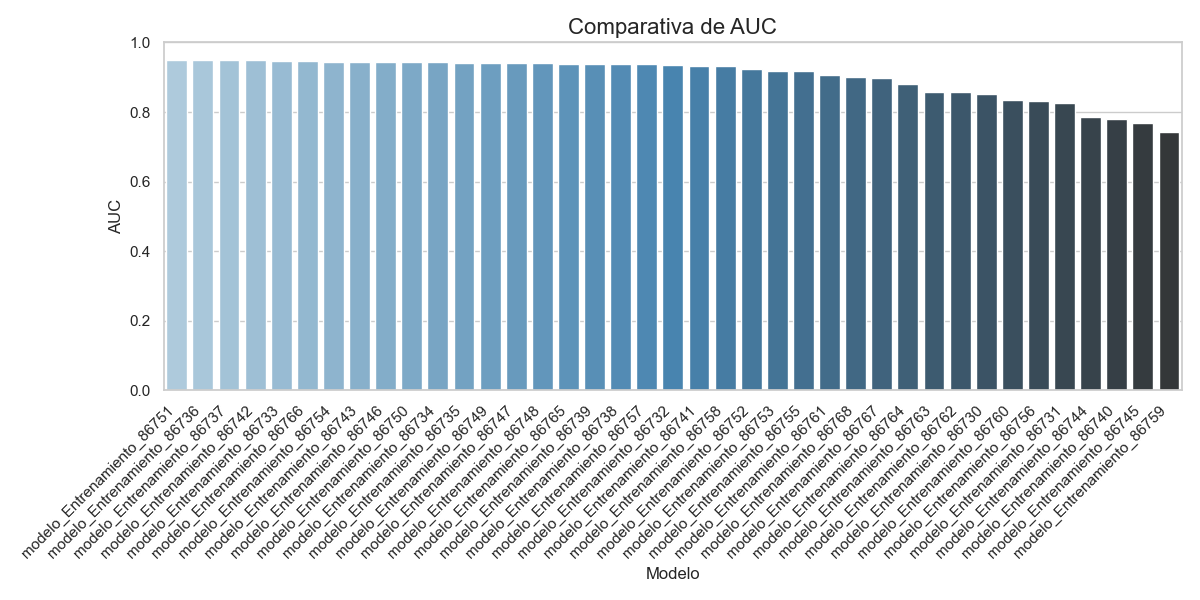
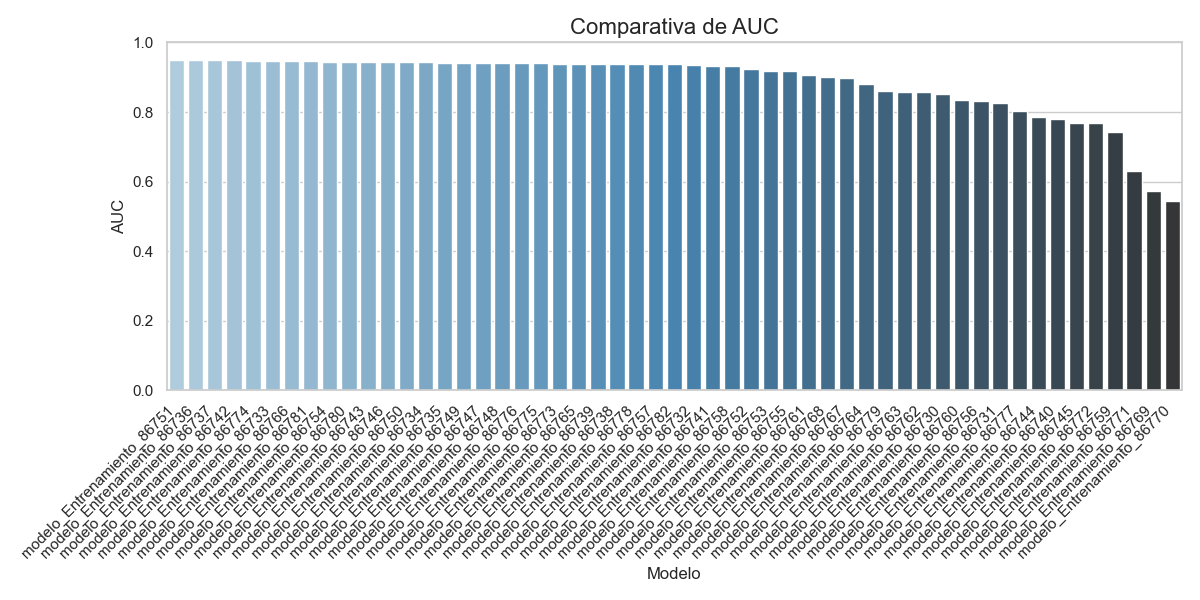
Actualización y datos
Actualización y obtención de los datos del testeo realizado al modelo elegido

diff --git a/Testeo/Test.py b/Testeo/Test.py
@@ -39,6 +39,8 @@ from tensorflow.keras.applications.efficientnet import preprocess_input
 from sklearn.metrics import roc_auc_score, f1_score, recall_score, precision_score, confusion_matrix, classification_report, roc_curve, auc
 import tensorflow.keras.backend as K
 from collections import Counter
+from tensorflow.keras.layers import Input
+from tensorflow.keras.models import Model
 import time
 import shutil
 
@@ -46,7 +48,7 @@ import shutil
 IMG_SIZE = 224
 BATCH_SIZE = 16
 LEARNING_RATE = 1e-4
-timestamp = "20250412_105257"
+timestamp = "20250412_123456"  # Cambiar por la fecha y hora actual o un ID único
 modelo_final_path = './ModelosGuardados/prueba_modelo_Entrenamiento_86733.keras'
 resultados_path = './Resultados'
 os.makedirs(resultados_path, exist_ok=True)
@@ -85,6 +87,15 @@ model.compile(optimizer=keras.optimizers.RMSprop(learning_rate=LEARNING_RATE),
 modelo_final_save_path = './Modelo Final/modelo_final.keras'
 model.save(modelo_final_save_path)
 print(f"[✔] Copia del modelo guardada en: {modelo_final_save_path}")
+
+# Reconstruir modelo con input simple (sin nombre)
+inputs = Input(shape=(IMG_SIZE, IMG_SIZE, 3))
+outputs = model(inputs)
+
+modelo_simple = Model(inputs=inputs, outputs=outputs)
+modelo_simple_save_path = './Modelo Final/modelo_final_simple.keras'
+modelo_simple.save(modelo_simple_save_path, save_format='keras')
+print(f"[✔] Modelo simplificado guardado en: {modelo_simple_save_path}")
 
 # === PREDICCIÓN Y MÉTRICAS ===
 start = time.time()
@@ -270,7 +281,7 @@ for i, idx in enumerate(sample_idx, start=1):
         plt.figure(figsize=(6, 6))
         plt.imshow(grad_cam_image)
         plt.axis('off')
-        plt.title(f"Grad-CAM - Pred: {clase_pred} Real: {clase_real}")
+        plt.title(f"Grad-CAM – Pred: {clase_pred} Real: {clase_real}")
         file_name = f"grad_cam_{i}_pred_{clase_pred}_real_{clase_real}.png"
         plt.tight_layout()
         plt.savefig(os.path.join(img_gradcam_path, file_name))
@@ -404,18 +415,18 @@ for i in range(3):
     fpr, tpr, _ = roc_curve(y_test_bin[:, i], y_pred_prob[:, i])
     roc_auc = auc(fpr, tpr)
     plt.plot(fpr, tpr, color=colores[i], lw=2,
-             label=f'{clases[i]} (AUC = {roc_auc:.4f})')
+             label=f'{clases[i]} (AUC = {roc_auc:.3f})')
 
 # Diagonal de referencia
 plt.plot([0, 1], [0, 1], 'k--', lw=2)
 
-plt.xlim([0.0, 1.0])
+plt.xlim([-0.02, 1.0])
 plt.ylim([0.0, 1.05])
 plt.xlabel('Tasa de Falsos Positivos (FPR)')
 plt.ylabel('Tasa de Verdaderos Positivos (TPR)')
-plt.title('Curva ROC por clase')
+plt.title('Curva ROC – Entrenamiento_86733')
 plt.legend(loc='lower right')
-plt.grid(alpha=0.3)
+plt.grid(alpha=1.0)
 
 roc_path = os.path.join(resultados_path, f"curva_roc_por_clase_{timestamp}.png")
 plt.savefig(roc_path)

diff --git a/Testeo/GraficasModelos.py b/Testeo/GraficasModelos.py
@@ -66,7 +66,7 @@ for _, row in top3.iterrows():
     plt.xticks(angles[:-1], etiquetas, color='grey', size=8, rotation=45)
     ax.plot(angles, valores, linewidth=2, linestyle='solid', label=row['Nombre_Modelo'])
     ax.fill(angles, valores, alpha=0.3)
-    plt.title(f'Radar por clase - {row["Nombre_Modelo"]}', size=14)
+    plt.title(f'Radar por clase – {row["Nombre_Modelo"]}', size=14)
     plt.tight_layout()
     plt.savefig(os.path.join(graficas_path, f'radar_{row["Nombre_Modelo"]}.png'))
     plt.close()
@@ -101,7 +101,7 @@ with open(md_path, 'w', encoding='utf-8') as f:
 
     # Radar plots
     for _, row in top3.iterrows():
-        f.write(f"## Radar por clase - {row['Nombre_Modelo']}\n")
+        f.write(f"## Radar por clase – {row['Nombre_Modelo']}\n")
         f.write(f"![Radar_{row['Nombre_Modelo']}](./radar_{row['Nombre_Modelo']}.png)\n\n")
 
     # Scatter plot
@@ -113,7 +113,7 @@ print(f"[✔] Archivo Markdown generado: {md_path}")
 # === EXPORTAR A .tex ===
 tex_path = os.path.join(graficas_path, 'graficas_resultados.tex')
 with open(tex_path, 'w', encoding='utf-8') as f:
-    f.write("\\section{Comparativa de Modelos IA - Gráficas}\n")
+    f.write("\\section{Comparativa de Modelos IA – Gráficas}\n")
 
     # Gráficas de barras
     for metrica in metricas_globales:

diff --git a/Testeo/CompararModelos.py b/Testeo/CompararModelos.py
@@ -70,7 +70,7 @@ def sparse_categorical_focal_loss(gamma=2., alpha=0.25):
     return loss
 
 # === FUNCIÓN: OBTENER ÚLTIMOS MODELOS GUARDADOS ===
-def obtener_ultimos_modelos(carpeta='./ModelosGuardados', cantidad=50, filtro_ids=None):
+def obtener_ultimos_modelos(carpeta='./ModelosGuardados', cantidad=100, filtro_ids=None):
     archivos = [f for f in os.listdir(carpeta) if f.endswith('.keras') and f.startswith('prueba_modelo')]
     if filtro_ids:
         archivos = [f for f in archivos if any(id_ in f for id_ in filtro_ids)]
